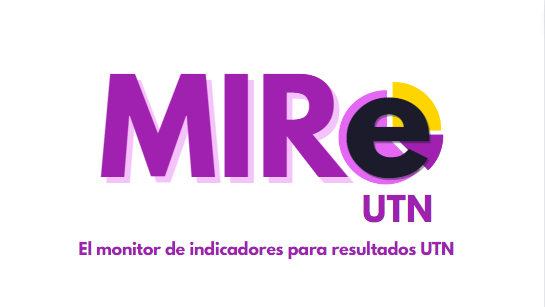
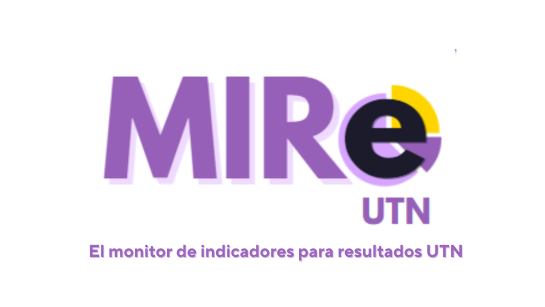
Cambiando paleta de colores

Changed region(s): [[0.1872, 0.2345, 0.811, 0.7329], [0.1248, 0.7915, 0.8734, 0.8502], [0.9982, 0.0, 1.0, 1.0]]

diff --git a/MIRe2/MIReApp/templates/metricas/index.html b/MIRe2/MIReApp/templates/metricas/index.html
@@ -25,10 +25,10 @@
     <link rel="stylesheet" href="https://cdnjs.cloudflare.com/ajax/libs/font-awesome/6.4.2/css/all.min.css"> 
 
     <div class="col-md-10 card" style="text-align: left;">
-        <div class="card-header" style="background-color: #e468f4;">
+        <div class="card-header" style="background-color: #D7A5FF;">
             <div style="display: flex; justify-content: space-between; align-items: center;">
-                <span><a href="{% url 'inicio' %}" class="btn btn-secondary rounded-4 fw-bold" style="background-color: transparent; color: #ffff;border-color: #ffff;border-width: 2px;">← Inicio</a></span>
-                <span><h2>MIS MÉTRICAS</h2></span>
+                <span><a href="{% url 'inicio' %}" class="btn btn-secondary rounded-4 fw-bold" style="background-color: transparent; color: #ffff;border-color: #ffff;border-width: 2px;">⪻ Inicio</a></span>
+                <span><h2 style="color: #965FB8">MIS MÉTRICAS</h2></span>
             </div>  
         </div>
         <div class="card-body">
@@ -36,7 +36,7 @@
             <br>
             <br>
             <div class="table-responsive">
-                <table class="table" style="background-color: #eab5f1;">
+                <table class="table rounded-4" style="background-color: #D7A5FF;">
                     <thead>
                         <tr>
                             <th scope="col">ID</th>
@@ -59,7 +59,7 @@
                             <td>{{ metri.year }}</td>
                             <td> 
             
-                                <a name="" id="" class="btn" style="background-color: #b155bd;" href="{% url 'editar' metri.id %}"><i class="fa-solid fa-square-pen fa-lg"></i></a> <!--Boton editar-->
+                                <a name="" id="" class="btn" style="background-color: #D7A5FF;" href="{% url 'editar' metri.id %}"><i class="fa-solid fa-square-pen fa-lg"></i></a> <!--Boton editar-->
                                 <a name="" id="" class="btn" style="background-color: rgb(238, 125, 96);" href="{% url 'eliminar' metri.id %}" role="button"><i class="fa-solid fa-trash-can"></i></a><!--Boton eliminar-->
                                 <a name="" id="" class="btn" style="background-color: #ffd500;" href="{% url 'historial_metrica' metri.id %}"><i class="fa-solid fa-plus"></i></a><!--Boton Historico-->
 
@@ -71,7 +71,7 @@
             </div>
             
         </div>
-        <div class="card-footer text-muted" style="background-color: #e468f4;">
+        <div class="card-footer text-muted" style="background-color: #D7A5FF;">
         </div>
     </div>
 </center>

diff --git a/MIRe2/MIReApp/templates/historial_metrica.html b/MIRe2/MIReApp/templates/historial_metrica.html
@@ -8,9 +8,9 @@
 <br>
 <center>
 <div class="card col-md-6" style="text-align: left;">
-    <div class="card-header fw-bold" style="background-color: #e468f4;color: #000000;">
+    <div class="card-header fw-bold" style="background-color: #D7A5FF;color: #000000;">
         <div style="display: flex; justify-content: space-between; align-items: center;">
-            <span><a href="{% url 'metricas' %}" class="btn btn-secondary rounded-4 fw-bold" style="background-color: transparent; color: #ffff;border-color: #ffff;border-width: 2px;">← Volver</a></span>
+            <span><a href="{% url 'metricas' %}" class="btn btn-secondary rounded-4 fw-bold" style="background-color: transparent; color: #ffff;border-color: #ffff;border-width: 2px;">⪻ Volver</a></span>
             <span><h2>HISTÓRICO</h2></span>
         </div>
     </div>
@@ -20,7 +20,7 @@
                 <body>
                     <h2>{{ metrica.titulo }}</h2>
                     <br>
-                    <table class="table rounded-4" style="background-color: #eab5f1; width: flex;">
+                    <table class="table rounded-4" style="background-color: #D7A5FF; width: flex;">
                         <tr>
                             
                             <th>Año</th>
@@ -44,8 +44,8 @@
                     <form method="post">
                         {% csrf_token %}
                        
-                        <input type="number" name="nuevo_año" required class="rounded-3"  placeholder="Ingrese año" style="border-color: #a020a0;">
-                        <input type="number" name="nuevo_valor" required class="rounded-3" placeholder="Ingrese valor" style="border-color: #a020a0;">
+                        <input type="number" name="nuevo_año" required class="rounded-3"  placeholder="Ingrese año" style="border-color: #965FB8;">
+                        <input type="number" name="nuevo_valor" required class="rounded-3" placeholder="Ingrese valor" style="border-color: #965FB8;">
                         <button type="submit" class="btn rounded-4 fw-bold" style="background-color: #fff4bb;color: #000000;border-color: #ffd500;border-width: 3px;">Agregar</button>
                     </form>
                 </body>
@@ -67,7 +67,7 @@
                 </script>
 
     </div>
-    <div class="card-footer text-muted" style="background-color: #e468f4;">
+    <div class="card-footer text-muted" style="background-color: #D7A5FF;">
         <br>
     </div>   
 </div> 

diff --git a/MIRe2/MIReApp/templates/indicadores/indexindicador.html b/MIRe2/MIReApp/templates/indicadores/indexindicador.html
@@ -28,9 +28,9 @@
     <link rel="stylesheet" href="https://cdnjs.cloudflare.com/ajax/libs/font-awesome/6.4.2/css/all.min.css"> 
 
     <div class="col-md-10 card" style="text-align: left;">
-        <div class="card-header" style="background-color: #e468f4;">
+        <div class="card-header" style="background-color: #D7A5FF;">
             <div style="display: flex; justify-content: space-between; align-items: center;">
-                <span><a href="{% url 'inicio' %}" class="btn btn-secondary rounded-4 fw-bold" style="background-color: transparent; color: white;border-color: #ffff;border-width: 2px;">← Inicio</a></span>
+                <span><a href="{% url 'inicio' %}" class="btn btn-secondary rounded-4 fw-bold" style="background-color: transparent; color:white;border-color: white;border-width: 2px;">⪻ Inicio</a></span>
                 <span><h2>MIS INDICADORES</h2></span>
             </div>
             
@@ -40,7 +40,7 @@
             <br>
             <br>
             <div class="table-responsive">
-                <table class="table" style="background-color: #eab5f1;">
+                <table class="table rounded-4" style="background-color: #D7A5FF;">
                     <thead>
                         <tr>
                             <th scope="col">ID</th>
@@ -61,7 +61,7 @@
                             <td>{{ indi.tipo }}</td>
                             <td> 
             
-                                <a name="" id="" class="btn" style="background-color: #a020b0;" href=""><i class="fa-solid fa-square-pen fa-lg"></i></a></a> <!--Boton editar-->
+                                <a name="" id="" class="btn" style="background-color: #965FB8;" href=""><i class="fa-solid fa-square-pen fa-lg"></i></a></a> <!--Boton editar-->
                                 <a name="" id="" class="btn" style="background-color: #f60;" href="" role="button"><i class="fa-solid fa-trash-can"></i></a><!--Boton eliminar-->
                         
                             </td>
@@ -72,7 +72,7 @@
             </div>
             
         </div>
-        <div class="card-footer text-muted" style="background-color: #e468f4;">
+        <div class="card-footer text-muted" style="background-color: #D7A5FF;">
         </div>
     </div>
 </center>

diff --git a/MIRe2/MIReApp/templates/base.html b/MIRe2/MIReApp/templates/base.html
@@ -17,9 +17,9 @@
 </head>
 
 <body>
-  <nav class="navbar bg-body-tertiary fixed-top" style="background-color: #a020a0; position: fixed;">
+  <nav class="navbar bg-body-tertiary fixed-top" style="background-color: #965FB8; position: fixed;">
     <div class="container-fluid">
-      <a class="nav-item nav-link fw-bold " style="color: #a020a0;" href="{% url 'inicio' %}" aria-current="page">
+      <a class="nav-item nav-link fw-bold " style="color: #965FB8;" href="{% url 'inicio' %}" aria-current="page">
       <img src="/../static/images/grafiquita.png" class="rounded-3"></a>
       <button class="navbar-toggler" type="button" data-bs-toggle="offcanvas" data-bs-target="#offcanvasNavbar" aria-controls="offcanvasNavbar" aria-label="Toggle navigation" >
         <span class="navbar-toggler-icon"></span>
@@ -32,16 +32,16 @@
         <div class="offcanvas-body">
           <ul class="navbar-nav justify-content-end flex-grow-1 pe-3">
             <li class="nav-item">
-              <a class="nav-item nav-link fw-bold " style="color: #a020a0;" href="{% url 'inicio' %}" aria-current="page">Inicio<span class="visually-hidden">(current)</span></a>
+              <a class="nav-item nav-link fw-bold " style="color: #965FB8;" href="{% url 'inicio' %}" aria-current="page">Inicio<span class="visually-hidden">(current)</span></a>
             </li>
             <li class="nav-item">
-              <a class="nav-item nav-link fw-bold" style="color: #a020a0;" href="{% url 'metricas' %}">Métricas</a>
+              <a class="nav-item nav-link fw-bold" style="color: #965FB8;" href="{% url 'metricas' %}">Métricas</a>
             </li>
             <li class="nav-item">
-              <a class="nav-item nav-link fw-bold" style="color: #a020a0;" href="{% url 'indicadores' %}">Indicadores</a>
+              <a class="nav-item nav-link fw-bold" style="color: #965FB8;" href="{% url 'indicadores' %}">Indicadores</a>
             </li>
             <li class="nav-item">
-              <a class="nav-item nav-link fw-bold" style="color: #a020a0;" href="{% url 'nosotros' %}">Informes</a>
+              <a class="nav-item nav-link fw-bold" style="color: #965FB8;" href="{% url 'nosotros' %}">Informes</a>
             </li>
           </ul>
           </div>

diff --git a/MIRe2/MIReApp/templates/paginas/inicio.html b/MIRe2/MIReApp/templates/paginas/inicio.html
@@ -71,7 +71,7 @@
   </div> 
   <br> 
   <div class="dropdown">
-  <button class="btn dropdown-toggle" style="background-color: #e468f4;" type="button" data-bs-toggle="dropdown" aria-expanded="false">Área</button>
+  <button class="btn dropdown-toggle" style="background-color: #D7A5FF;" type="button" data-bs-toggle="dropdown" aria-expanded="false">Área</button>
   <div class="dropdown-menu">
     <a class="dropdown-item" href="#">Decanato</a>
     <a class="dropdown-item" href="#">Sec. Académica</a>
@@ -105,7 +105,7 @@
     <a class="dropdown-item" href="#">Repensando UTN</a>
     <a class="dropdown-item" href="#">otro</a>
   </div>
-  <button class="btn dropdown-toggle" style="background-color: #a020b0;" type="button"data-bs-toggle="dropdown" aria-expanded="false">Perioricidad</button>
+  <button class="btn dropdown-toggle" style="background-color: #965FB8;" type="button"data-bs-toggle="dropdown" aria-expanded="false">Perioricidad</button>
   <div class="dropdown-menu">
     <a class="dropdown-item" href="#">Bianual</a>
     <a class="dropdown-item" href="#">Anual</a>
@@ -115,11 +115,11 @@
   </div>
   </div>
     <br> 
-    <div class="h-30 p-5 text-white border rounded-pill" style="background-color: #e468f4;">
+    <div class="h-30 p-5 text-white border rounded-pill" style="background-color: #D7A5FF;">
         <img src="/../static/images/grafica.png" class="col-md-3"> 
     </div>
     <br>
-    <div class="h-30 p-5 text-white border rounded-pill" style="background-color: #e468f4;">
+    <div class="h-30 p-5 text-white border rounded-pill" style="background-color: #D7A5FF;">
         <h6 class='text-center' style="color: black;">Nivel de satisfaccion respecto<br/> a la implementación del repensando </h6>
     <br>
     <br>
@@ -127,7 +127,7 @@
     <br>
     </div>
     <br>
-    <div class="h-30 p-5 text-white border rounded-pill" style="background-color: #e468f4;">
+    <div class="h-30 p-5 text-white border rounded-pill" style="background-color: #D7A5FF;">
       <h6 class='text-center' style="color: black;">Acá se verian los<br/> Indicadores</h6>
   <br>
   <br>

diff --git a/MIRe2/MIReApp/templates/metricas/crear.html b/MIRe2/MIReApp/templates/metricas/crear.html
@@ -15,14 +15,14 @@
     <br>
     <br>
     <div class="card col-md-6" style="text-align: left;">
-        <div class="card-header fw-bold" style="background-color: #e468f4;color: #000000;">
+        <div class="card-header fw-bold" style="background-color: #D7A5FF;color: #000000;">
           <div style="display: flex; justify-content: space-between; align-items: center;">
-            <span><a href="{% url 'metricas' %}" class="btn btn-secondary rounded-4 fw-bold" style="background-color: transparent; color: #ffff;border-color: #ffff;border-width: 2px;">← Volver</a></span>
-            <span><h2>MÉTRICAS</h2></span>
+            <span><a href="{% url 'metricas' %}" class="btn btn-secondary rounded-4 fw-bold" style="background-color: transparent; color: #ffff;border-color: #ffff;border-width: 2px;">⪻ Volver</a></span>
+            <span><h2 style="color: #965FB8;">MÉTRICAS</h2></span>
         </div>
         </div>
-        <div class="card-body" style="background-color: #e9acf1;">
-            <h4 style="color: #a020a0;">Nueva métrica</h4>
+        <div class="card-body" style="background-color: #D7A5FF;">
+            <h4 style="color: #965FB8">Nueva métrica</h4>
             {%  include 'metricas/form.html' %}
             <script>
               document.addEventListener("DOMContentLoaded", function() {
@@ -45,7 +45,7 @@
               });
             </script>
         </div>
-        <div class="card-footer text-muted" style="background-color: #e468f4;">
+        <div class="card-footer text-muted" style="background-color: #D7A5FF;">
             
         </div>
     </div>

diff --git a/MIRe2/MIReApp/templates/metricas/editar.html b/MIRe2/MIReApp/templates/metricas/editar.html
@@ -6,18 +6,18 @@
 
 <center>
 <div class="card col-md-6" style="text-align: left;">
-    <div class="card-header fw-bold" style="background-color: #e468f4;color: #fff;">
+    <div class="card-header fw-bold" style="background-color: #D7A5FF;color: #fff;">
         <div style="display: flex; justify-content: space-between; align-items: center;">
-            <span><a href="{% url 'metricas' %}" class="btn btn-secondary rounded-4 fw-bold" style="background-color: transparent; color: #ffff;border-color: #ffff;border-width: 2px;">← Volver</a></span>
-            <span><h2>MÉTRICAS</h2></span>
+            <span><a href="{% url 'metricas' %}" class="btn btn-secondary rounded-4 fw-bold" style="background-color: transparent; color: #ffff;border-color: #ffff;border-width: 2px;">⪻ Volver</a></span>
+            <span><h2 style="color: #965FB8;">MÉTRICAS</h2></span>
         </div>
     </div>
     <div class="card-body">
-        <h4 class="card-title" style="color: #a020a0;">Editar métrica</h4>
+        <h4 class="card-title" style="color: #965FB8;">Editar métrica</h4>
         
         {%  include 'metricas/form.html' %}
     </div>
-    <div class="card-footer text-muted" style="background-color: #e468f4;">
+    <div class="card-footer text-muted" style="background-color: #D7A5FF;">
         
     </div>
 </div>

diff --git a/MIRe2/MIReApp/templates/indicadores/crear.html b/MIRe2/MIReApp/templates/indicadores/crear.html
@@ -17,16 +17,16 @@
     <!-- Sección izquierda: Formulario de creación de indicadores -->
     <div style="width: 80%;flex: 2;">
         <div class="card col-md-11" style="text-align: left;">
-            <div class="card-header fw-bold " style="background-color: #e468f4;color: #000000;">
+            <div class="card-header fw-bold " style="background-color: #D7A5FF;color: #000000;">
                 <div style="display: flex; justify-content: flex-end; width: 100%;">
-                    <h2>INDICADORES</h2>
+                    <h2 style="color: #965FB8;">INDICADORES</h2>
                 </div>  
             </div>
-            <div class="card-body" style="background-color: #e9acf1;">
-                <h4 style="color: #a020a0;">Nuevo indicador</h4>
+            <div class="card-body" style="background-color: #D7A5FF;">
+                <h4 style="color: #965FB8">Nuevo indicador</h4>
                 {%  include 'indicadores/form.html' %}
             </div>
-            <div class="card-footer text-muted" style="background-color: #e468f4;">
+            <div class="card-footer text-muted" style="background-color: #D7A5FF;">
             </div>
         </div>
     </div>

diff --git a/MIRe2/MIReApp/templates/metricas/form.html b/MIRe2/MIReApp/templates/metricas/form.html
@@ -10,7 +10,7 @@
     <div class="col-12 help-text">{{ campo.errors }}</div>
   {% endfor %}
 
-  <input name="" id="" class="btn btn-success" style="background-color: #a020ba; border-color: #a020ba;" type="submit" value="Confirmar">
+  <input name="" id="" class="btn btn-success" style="background-color: #965FB8; border-color: #a020ba;" type="submit" value="Confirmar">
   <a name="" id="" class="btn btn-success" style="background-color: #f60; border-color: #f60;" href="{% url 'metricas' %}" role="button">Cancelar</a>
 </form>
 

diff --git a/MIRe2/MIReApp/templates/indicadores/form.html b/MIRe2/MIReApp/templates/indicadores/form.html
@@ -15,7 +15,7 @@
   {{ formulario2.tipo }}
 </div>-->
   
-  <input name="" id="" class="btn btn-success" style="background-color: #a020b0;border-color: #a020b0;" type="submit" value="Confirmar">
+  <input name="" id="" class="btn btn-success" style="background-color: #965FB8;border-color: #a020b0;" type="submit" value="Confirmar">
   <a name="" id="" class="btn btn-success" style="background-color: #f60; border-color: #f60;" href="{% url 'indicadores' %}" role="button">Cancelar</a>
 
 

diff --git a/MIRe2/MIReApp/static/css/base.css b/MIRe2/MIReApp/static/css/base.css
@@ -294,15 +294,15 @@ li a:hover {
     }
 }
 h2{
-    color: #A020B0;
+    color: #965FB8;
 }
 
 button {
     color:rgb(255, 255, 255);
-    background-color: #e468f4
+    background-color: #D7A5FF
 }
 h6 {
-    color: #A020B0;
+    color: #965FB8;
     font-size: 10px;
     text-align: justify;
 }
